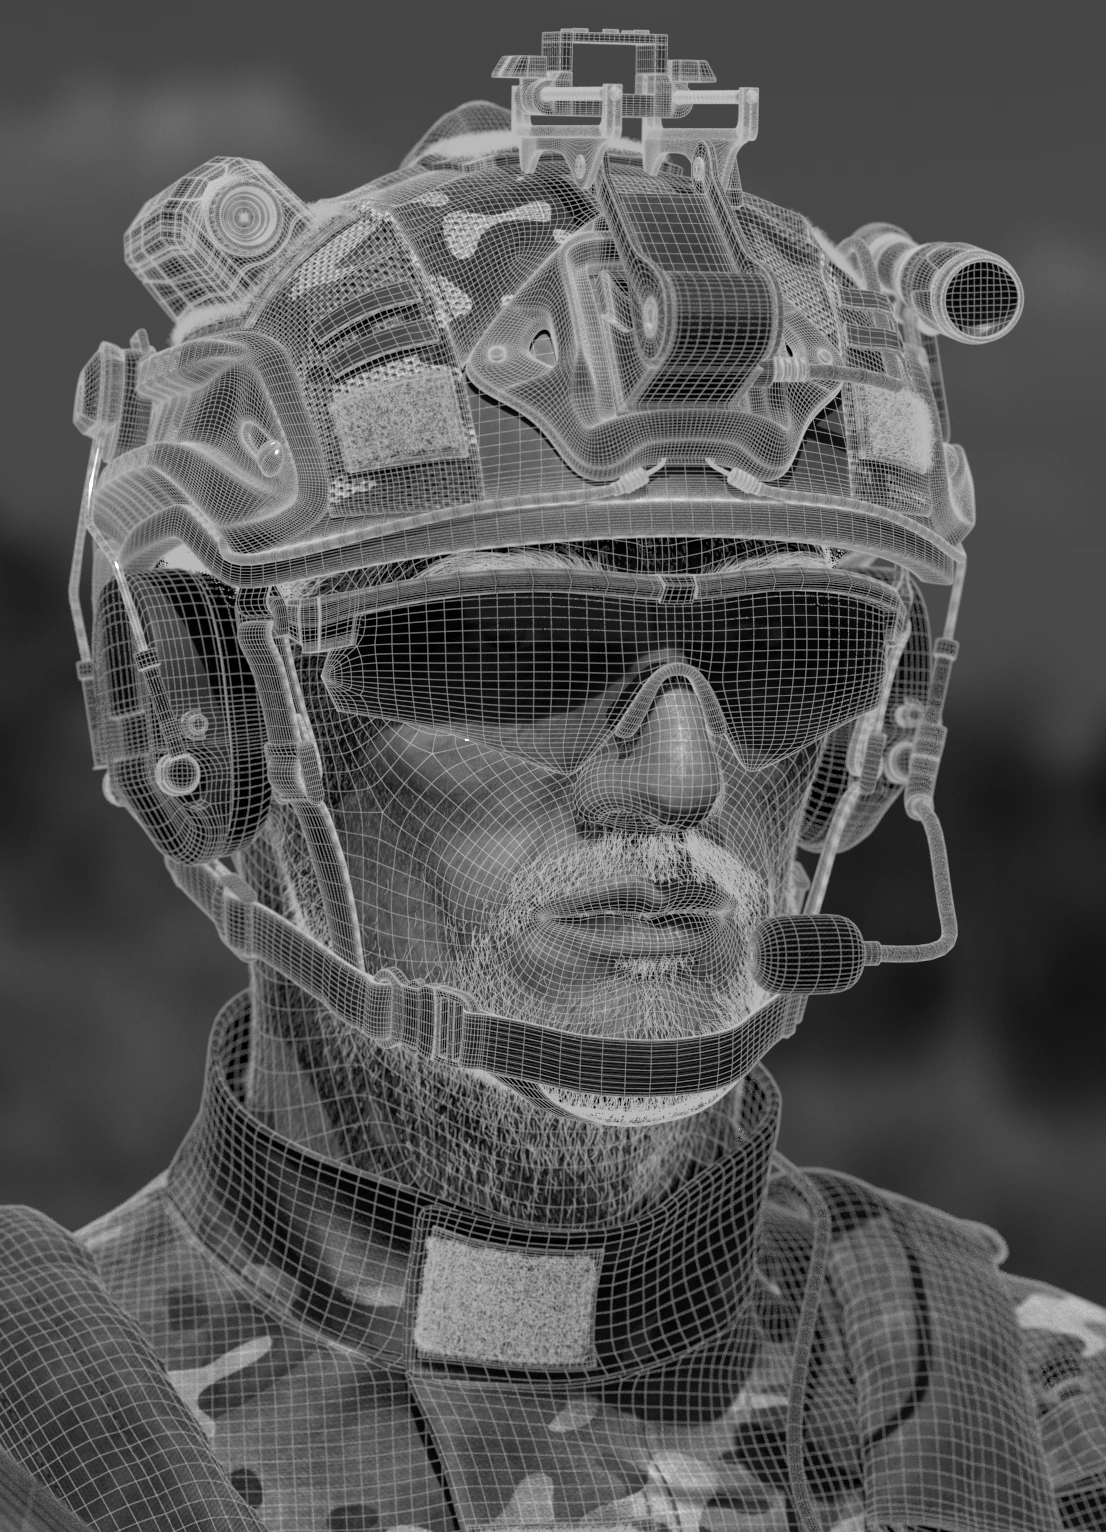
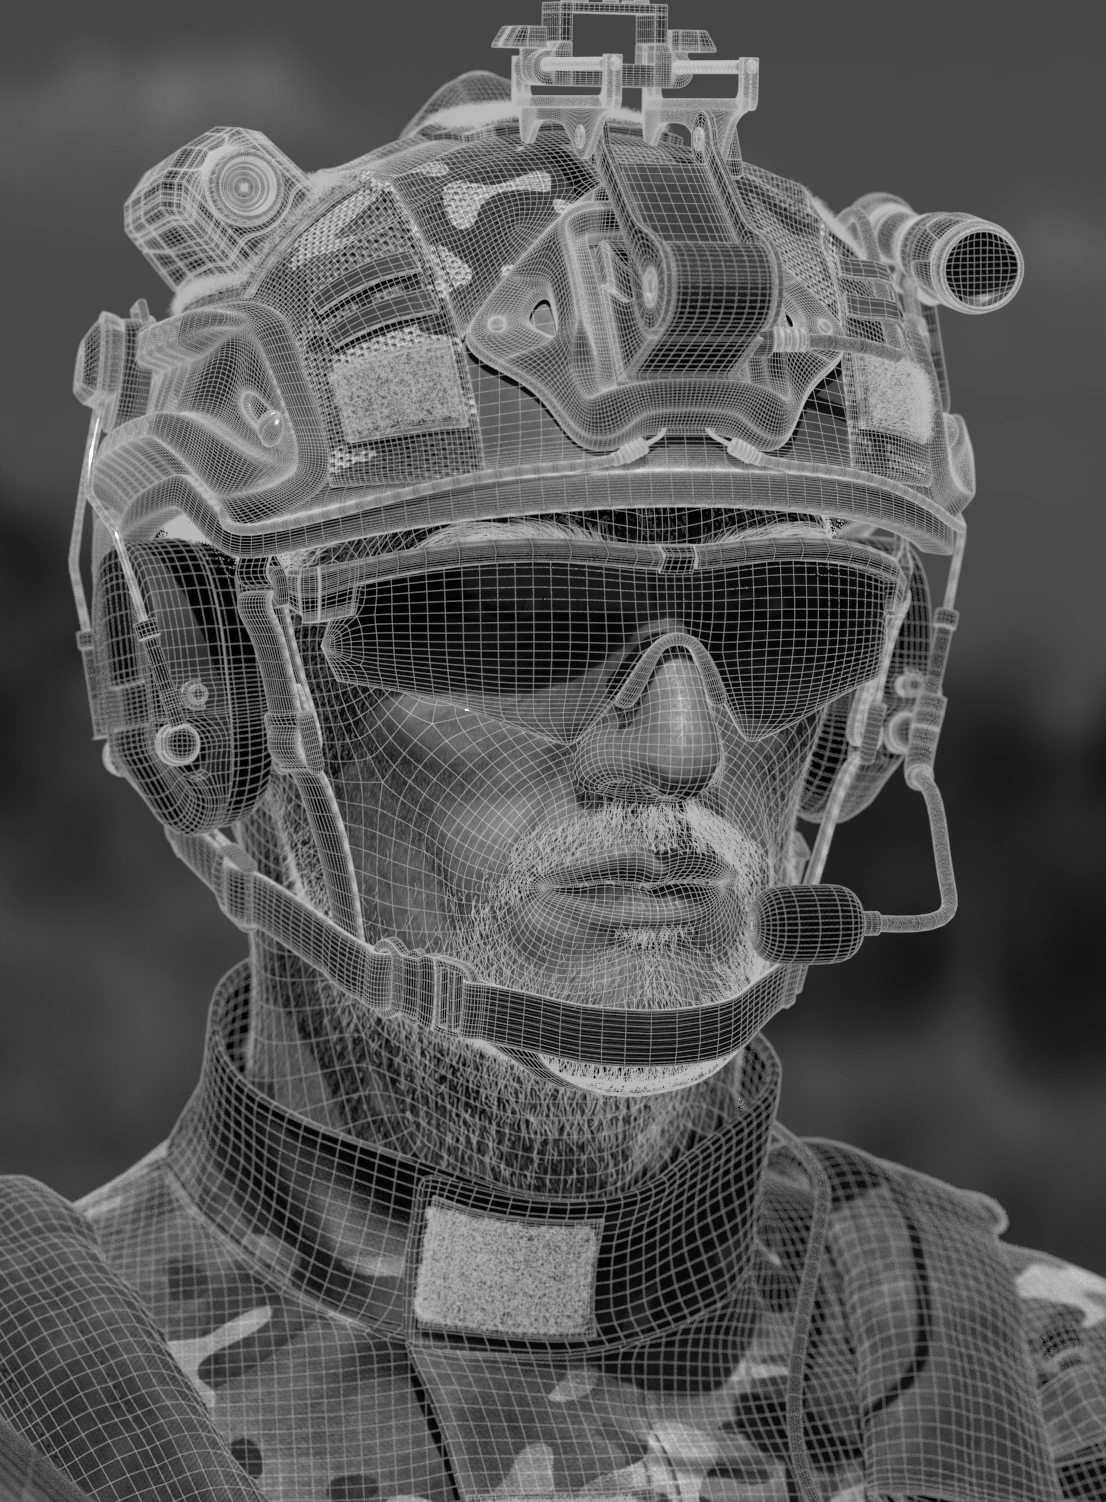
style: 별똥별 꼬리·칩 선명도·썸네일 꽉 차게 + 군인 얼굴 비교 + 문구 수정

diff --git a/index.html b/index.html
@@ -23,9 +23,9 @@
         <p class="overline">UNITY · MACHINE VISION · 3D MODELING</p>
         <h1>정수빈</h1>
         <p class="hero-en">Subin Jung</p>
-        <h2>Unity <span>·</span> Vision <span>·</span> 3D</h2>
+        <h2>Unity <span>·</span> Vision <span>·</span> 3D Modeling</h2>
                 <div class="hero-buttons"><a class="primary-button" href="#projects">프로젝트 보기 <b>↘</b></a><a class="quiet-button" href="#contact">연락하기 <span>→</span></a></div>
-        <p class="resume-note">MODEL · CODE · VISION <span>·</span> SEOUL, KR</p>
+        <p class="resume-note">3D MODELING · CODE · VISION <span>·</span> SEOUL, KR</p>
       </div>
       <div class="hero-stage model-stage wire-stage" aria-label="군용 차량 와이어프레임">
         <div class="wire-hero" aria-hidden="true"><img class="wire-base" src="assets/hero/car_wire_blue.webp" alt=""><canvas class="wire-sparks"></canvas></div>
@@ -37,7 +37,7 @@
       <a class="scroll-cue" href="#contributions"><span>SCROLL TO EXPLORE</span><b>↓</b></a>
     </section>
     <section class="contribution-section section-wrap" id="contributions">
-      <div class="contribution-head"><div><p class="overline">GITHUB / CONTRIBUTIONS</p><h2>꾸준히 쌓아가는 기록<span>.</span></h2></div><label class="year-picker">YEAR <select id="contributionYear" aria-label="커밋 기록 연도"><option>2026</option><option>2025</option></select></label></div>
+      <div class="contribution-head"><div><p class="overline">GITHUB / CONTRIBUTIONS</p><h2>Commit Log<span>.</span></h2></div><label class="year-picker">YEAR <select id="contributionYear" aria-label="커밋 기록 연도"><option>2026</option><option>2025</option></select></label></div>
       <div class="contribution-card">
         <div class="contribution-top"><div><strong id="contributionTotal">—</strong><span id="contributionLabel">contributions</span></div><a class="preview-badge" href="https://github.com/subinlu22" target="_blank" rel="noopener"><i></i> LIVE · GITHUB</a></div>
         <div class="calendar-scroll"><div class="month-axis"><span>Jan</span><span>Mar</span><span>May</span><span>Jul</span><span>Sep</span><span>Nov</span></div><div class="calendar-body"><div class="weekday-axis"><span>Mon</span><span>Wed</span><span>Fri</span></div><div class="contribution-grid" id="contributionGrid" role="img" aria-label="GitHub 커밋 기록"></div></div></div>
@@ -49,7 +49,7 @@
       <div class="section-label"><span>01</span> ABOUT</div>
       <div class="about-content"><h2 class="about-keywords">3D Modeling<br>Machine Vision<br>Unity · Digital Twin<span>.</span></h2>
         <p class="about-sub">Experience</p>
-        <div class="tags about-tags"><i>모델링 · 텍스처링</i><i>머신비전 검사 시스템</i><i>CNN 학습 · ONNX 추론</i><i>Unity 디지털트윈</i><i>UDP 실시간 연동</i><i>URDF · 로봇팔 시뮬레이션</i><i>손 인식 인터랙션</i><i>생성형 AI 서비스</i><i>라즈베리파이 AI 기기</i><i>데스크톱 앱</i></div>
+        <div class="tags about-tags"><i>3D 모델링 · 텍스처링</i><i>머신비전 검사 시스템</i><i>CNN 학습 · ONNX 추론</i><i>Unity 디지털트윈</i><i>UDP 실시간 연동</i><i>URDF · 로봇팔 시뮬레이션</i><i>손 인식 인터랙션</i><i>생성형 AI 서비스</i><i>라즈베리파이 AI 기기</i><i>데스크톱 앱</i></div>
       </div>
     </section>
 
@@ -77,10 +77,10 @@
 
     <section class="works content-section section-wrap" id="works">
       <div class="section-label"><span>03</span> 3D WORKS</div><div class="section-main">
-        <div class="section-title"><h2>3D Works.</h2><p>Modeling · Texturing<br>Maya · Substance Painter</p></div>
+        <div class="section-title"><h2>3D Works.</h2><p>3D Modeling · Texturing<br>Maya · Substance Painter</p></div>
         <h4 class="project-group">Character</h4>
         <div class="work-grid">
-          <button class="work-tile" type="button" data-title="Soldier" data-render="assets/3d/soldier_1.webp" data-wire="assets/3d/soldier_1_wire.webp" data-extra="assets/3d/soldier_2.webp,assets/3d/soldier_3.webp,assets/3d/soldier_face_wire.webp,assets/3d/soldier_4.webp,assets/3d/soldier_turnaround.jpg" data-thumb="assets/3d/soldier_1_thumb.webp"><span class="work-thumb"><svg viewBox="0 0 120 120" aria-hidden="true"><g fill="none" stroke="currentColor" stroke-width="1.5"><path d="M60 18l36 20v44L60 102 24 82V38z"/><path d="M24 38l36 20 36-20M60 58v44"/></g></svg></span><span class="work-name">Soldier</span><span class="work-ko">군인</span></button>
+          <button class="work-tile" type="button" data-title="Soldier" data-render="assets/3d/soldier_1.webp" data-wire="assets/3d/soldier_1_wire.webp" data-extra="assets/3d/soldier_2.webp,assets/3d/soldier_face_render.webp|assets/3d/soldier_face_wire.webp,assets/3d/soldier_4.webp,assets/3d/soldier_turnaround.jpg" data-thumb="assets/3d/soldier_1_thumb.webp"><span class="work-thumb"><svg viewBox="0 0 120 120" aria-hidden="true"><g fill="none" stroke="currentColor" stroke-width="1.5"><path d="M60 18l36 20v44L60 102 24 82V38z"/><path d="M24 38l36 20 36-20M60 58v44"/></g></svg><span class="work-badge">Render ↔ Wire</span></span><span class="work-name">Soldier</span><span class="work-ko">군인</span></button>
         </div>
         <h4 class="project-group">Vehicle</h4>
         <div class="work-grid">

diff --git a/script.js b/script.js
@@ -302,7 +302,7 @@ if (wireStage && wireHero && wireCanTilt) {
     const i = starts[(Math.random() * starts.length) | 0];
     s.x = i % W; s.y = (i / W) | 0;
     s.dir = (Math.random() * 8) | 0;
-    s.speed = 0.08 + Math.random() * 0.12;  // 한 프레임에 움직이는 칸 수 (아주 느리게)
+    s.speed = 0.12 + Math.random() * 0.16;  // 한 프레임에 움직이는 칸 수 (느리게)
     s.life = 420 + Math.random() * 480;     // 몇 프레임 동안 빛나는지 (약 7~15초)
     s.age = 0; s.carry = 0; s.phase = Math.random() * Math.PI * 2; s.trail = [];
     return s;
@@ -357,10 +357,12 @@ if (wireStage && wireHero && wireCanTilt) {
       const fade = Math.sin(Math.min(s.age / s.life, 1) * Math.PI);   // 서서히 밝아졌다 꺼짐
       const cx = (s.x + 0.5) * scale, cy = (s.y + 0.5) * scale;
       // 꼬리: 지나온 자리를 이어서 아주 얇고 희미하게 (뒤로 갈수록 투명)
-      if (px !== s.x || py !== s.y) { s.trail.push([cx, cy]); if (s.trail.length > 18) s.trail.shift(); }
-      ctx.lineWidth = 0.5 * ratioPx;
+      if (px !== s.x || py !== s.y) { s.trail.push([cx, cy]); if (s.trail.length > 70) s.trail.shift(); }
+      ctx.lineCap = 'round';
       for (let t = 1; t < s.trail.length; t += 1) {
-        ctx.strokeStyle = `rgba(190,230,255,${0.3 * fade * (t / s.trail.length)})`;
+        const k = t / s.trail.length;                          // 0=꼬리 끝, 1=머리
+        ctx.strokeStyle = `rgba(200,235,255,${0.75 * fade * k * k})`;
+        ctx.lineWidth = (0.25 + 1.0 * k) * ratioPx;
         ctx.beginPath(); ctx.moveTo(s.trail[t - 1][0], s.trail[t - 1][1]); ctx.lineTo(s.trail[t][0], s.trail[t][1]); ctx.stroke();
       }
       // 머리: 뾰족한 다이아몬드 반짝임 (가늘어지는 십자 + 짧은 대각선)
@@ -395,8 +397,8 @@ if (wireStage && wireHero && wireCanTilt) {
       const x = cx + ex * Math.cos(TILT) - ey * Math.sin(TILT);
       const y = cy + ex * Math.sin(TILT) + ey * Math.cos(TILT);
       const front = (Math.sin(a) + 1) / 2;                     // 1이면 앞(아래쪽), 0이면 뒤(위쪽)
-      chip.style.transform = `translate(${x - chip.offsetWidth / 2}px, ${y - chip.offsetHeight / 2}px) scale(${0.86 + front * 0.18})`;
-      chip.style.opacity = (0.4 + front * 0.6).toFixed(2);
+      chip.style.transform = `translate3d(${Math.round(x - chip.offsetWidth / 2)}px, ${Math.round(y - chip.offsetHeight / 2)}px, 0)`;
+      chip.style.opacity = (0.72 + front * 0.28).toFixed(2);
       chip.style.zIndex = front > 0.5 ? 3 : 0;                // 뒤로 가면 차 뒤로 숨음
     });
     angle += 0.0022;                                           // 속도 (클수록 빠름)

diff --git a/style.css b/style.css
@@ -189,3 +189,10 @@ a.preview-badge{color:#a8bad5}
 #contributionNote a{color:#a9cfff;text-decoration:underline}
 .contact-content .contact-links{margin-top:22px;flex-direction:column;gap:16px}
 .contact-content .contact-mail{font-size:clamp(18px,2.4vw,28px);font-weight:600;padding-bottom:10px}
+/* ── 10/7 수정9: 칩 또렷하게 / 썸네일 꽉 차게 / 연락 글씨 크기 ── */
+.orbiting .float-chip{will-change:auto;backdrop-filter:none;-webkit-backdrop-filter:none;background:rgba(16,26,46,.88);color:#e3ecf8;font-weight:600}
+.work-thumb>img{object-fit:cover;object-position:center 30%;background:none}
+.contact-content .availability{font-size:12px;padding:9px 15px;letter-spacing:.1em}
+.contact-content .contact-links{margin-top:20px;gap:12px}
+.contact-content .contact-mail{font-size:clamp(14px,1.5vw,18px);font-weight:500;padding-bottom:8px}
+@media(min-width:761px){.orbiting .float-chip{font-size:11px;padding:9px 14px}}
